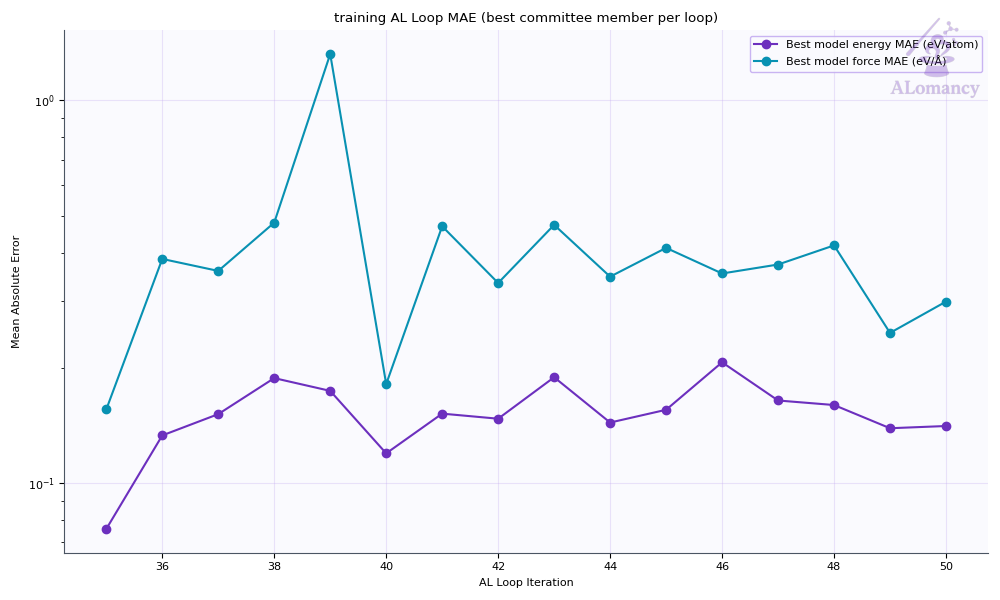
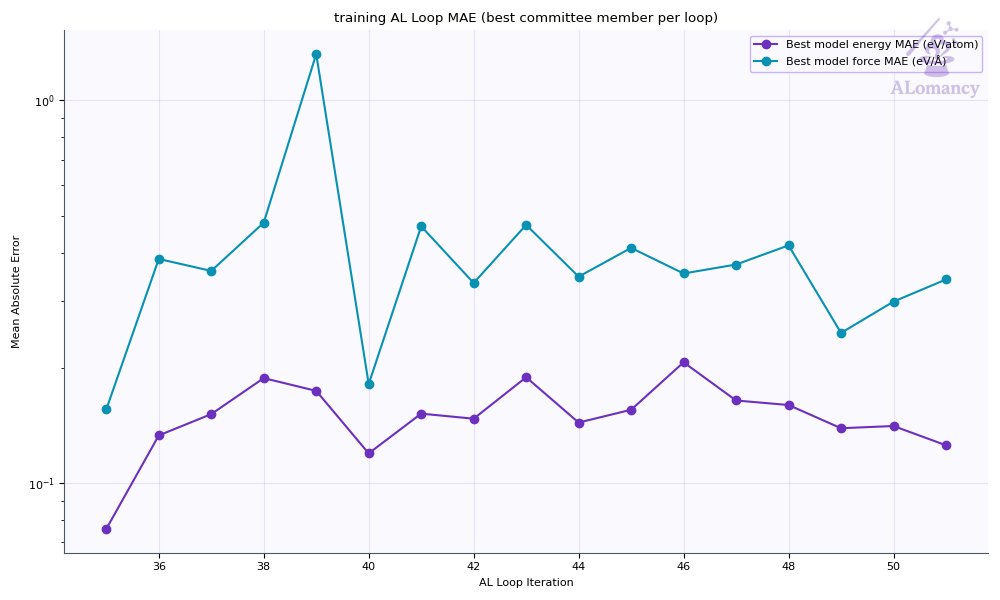
update good_c, yun_an

diff --git a/alomancy/yun_an/report/report.md b/alomancy/yun_an/report/report.md
@@ -1,25 +1,29 @@
-# ALomancy report: al_loop_50
+# ALomancy report: al_loop_51
 
-Workflow `committee_uncertainty` · trainer `mace` · generator `md` · evaluator `qe` · generated 2026-11-06T12:56:04
+Workflow `committee_uncertainty` · trainer `mace` · generator `md` · evaluator `qe` · generated 2026-11-09T06:28:48
 
-**Status:** ✓ no issues · 0 warning(s) logged
+**Status:** ✖ 2 errors · ⚠ 2 warnings · 💡 1 info · 17 warning(s) logged
 
 ## Headline
 
-| | loop 49 | loop 50 | change |
+| | loop 50 | loop 51 | change |
 |---|---:|---:|---:|
-| Best model test force MAE (eV/Å) | 0.247 | 0.298 | +21% |
-| Best model test energy MAE (meV/atom) | 139 | 141 | +1% |
-| Training structures | 2.23e+03 | 2.23e+03 | +0% |
-| Test structures | 130 | 130 | +0% |
-| New structures this loop | 76 | 0 | -100% |
-| Warnings / errors logged | 31 | 0 | -100% |
+| Best model test force MAE (eV/Å) | 0.298 | 0.341 | +14% |
+| Best model test energy MAE (meV/atom) | 141 | 126 | -11% |
+| Training structures | 2.32e+03 | 2.41e+03 | +4% |
+| Test structures | 142 | 152 | +7% |
+| New structures this loop | 86 | 92 | +7% |
+| Warnings / errors logged | 28 | 17 | -39% |
 
-Best model: fit_1 of 5 (chosen on the `valid` split).
+Best model: fit_4 of 5 (chosen on the `valid` split).
 
 ## Issues & suggestions
 
-No issues detected.
+- ✖ **remote_jobs_failed**: 13/141 remote jobs (9%) failed (8) or died (5). Check the job logs (results/alomancy.log has each failure's traceback); jobs killed by the scheduler usually need a longer max_time for that phase, or a partition with more memory.
+- ✖ **dft_partial_failure**: 8/100 structures sent to DFT (8%) came back without a result. Check the DFT output in results/<loop>/high_accuracy_evaluation; raise high_accuracy_evaluation.max_time / max_go_time if jobs timed out.
+- ⚠ **go_not_converged**: 14/92 geometry optimisations (15%) stopped at the step budget (200 steps) before reaching the force ceiling. Raise high_accuracy_evaluation.max_num_of_relax_steps, or raise high_accuracy_evaluation.force_ceiling (now 0.05 eV/Å) so they stop earlier. Non-converged structures are still kept as training data.
+- ⚠ **short_bond_excluded**: 3191/7150 structures (45%) were dropped for a bond shorter than 0.5 Å. The model is driving MD into collisions: lower md_kwargs.temperature or md_kwargs.timestep_fs, or add more short-range initialization data (dimers/trimers).
+- 💡 **overfitting**: The best model's test force MAE (0.341 eV/Å) is 2.3x its training MAE (0.146 eV/Å). The test set covers configurations training doesn't: keep adding data, or raise general.dataset_kwargs.valid_fraction to select models on held-out data.
 
 ## Trends
 
@@ -39,7 +43,8 @@ No issues detected.
 | 47 | 0.373 | 2085 | 30 | 30/45 | 73% | 0 | 27 |
 | 48 | 0.418 | 2152 | 75 | 75/100 | 61% | 0 | 39 |
 | 49 | 0.247 | 2232 | 76 | 76/100 | 92% | 0 | 31 |
-| 50 | 0.298 | 2232 | 0 | 0 | n/a | 0 | 0 |
+| 50 | 0.298 | 2323 | 86 | 86/100 | 85% | 0 | 28 |
+| 51 | 0.341 | 2409 | 92 | 92/100 | 85% | 0 | 17 |
 
 ![Best-model MAE per loop](plots/training_al_loop_mae_plot.png)
 
@@ -49,7 +54,7 @@ No issues detected.
 
 ![Best model parity](plots/best_model_parity.png)
 
-Median relative error: train energy 3.4%, force 21.6%; test energy 1.6%, force 155.2%.
+Median relative error: train energy 2.2%, force 15.8%; test energy 2.0%, force 148.8%.
 Energies with |formation energy| < 0.05 eV/atom and atoms with |F| < 0.1 eV/Å are left out; force error is |ΔF|/|F| per atom.
 
 ![Best model percentage error](plots/best_model_percent_error.png)
@@ -59,31 +64,79 @@ Energies with |formation energy| < 0.05 eV/atom and atoms with |F| < 0.1 eV/Å a
 | config_type | Train | Test | Excluded: redundant | Excluded: quality filter | total |
 |---|---:|---:|---:|---:|---:|
 | IsolatedAtom | 5 | 0 | 0 | 0 | 5 |
-| high_sd | 831 | 114 | 28 | 591 | 1564 |
+| high_sd | 1008 | 136 | 28 | 748 | 1920 |
 | init_MP | 69 | 4 | 0 | 0 | 73 |
 | init_amorphous | 67 | 12 | 8 | 0 | 87 |
 | init_dimer | 299 | 0 | 0 | 0 | 299 |
 | init_stretch_compress | 390 | 0 | 0 | 398 | 788 |
 | init_trimer | 571 | 0 | 0 | 0 | 571 |
-| **all** | **2232** | **130** | **36** | **989** | **3387** |
+| **all** | **2409** | **152** | **36** | **1146** | **3743** |
 
-- Redundancy removal: 36 structure(s) flagged in total, 0 of this loop's 0 new.
-- Quality filters: high_force: 987, formation_energy: 324.
+- Redundancy removal: 36 structure(s) flagged in total, 0 of this loop's 92 new.
+- DFT geometry-optimisation starting frames: 92 stored this loop, 4 used (the rest excluded by the train/test filters or redundancy removal).
+- Quality filters: high_force: 1144, formation_energy: 357.
 
 ![Training set composition](plots/training_set_composition.png)
 
+### Redundancy removal
+
+Redundancy removal flags near-duplicate training structures, so the model isn't trained on many copies of the same geometry. Each structure is described by `char_vec_128`: all of its interatomic distances, sorted and resampled to 128 values (`global_descriptor/atomic_distance_descriptor.make_char_vec`). Two structures count as duplicates when the Euclidean distance between their descriptors is below a tolerance: in database order, each structure still in the training set is kept unless it is within the tolerance of one already kept. The plot sweeps that tolerance and counts how many structures are kept at each value. **We are looking for plateaus** (shaded): ranges where the count doesn't change, so the result doesn't depend on the exact tolerance. The orange line (right axis) is the number of structures removed between consecutive tolerance steps, the gradient of the count: zero on a plateau. The start of the lowest plateau at least `general.redundancy_kwargs.min_plateau_width` of the swept range wide is used (dashed line). Nothing is flagged when no plateau qualifies, or when it would flag more than `max_flagged_fraction` of the structures; `general.redundancy_kwargs.tolerance` sets the tolerance directly.
+
+- This loop: 1,180 structures probed, tolerance 0.0398, 36 flagged as duplicates (8 plateau(s) found).
+
+![Redundancy tolerance probe](plots/redundancy_tolerance_probe.png)
+
 ## DFT
 
-No DFT this loop.
+- Structures: 92 returned of 100 submitted (92 relaxed, 0 single point).
+- Geometry optimisation: 78/92 reached the force ceiling (0.05 eV/Å); steps mean 134.6, median 129, max 200 of 200 allowed.
+- Average DFT time per relaxation: 312.5 min (median 292.5, max 586.7; 92 structures).
+- Largest per-atom force after DFT: median 0.05, max 1.88 eV/Å.
+- DFT phase wall-clock: 10.3 h (mean queue time 21 min).
+
+**Structures evaluated with DFT this loop (final geometries)**
+
+![Structures evaluated with DFT this loop (final geometries)](plots/added_structures.gif)
 
 ## MLIP training: mace
 
-- Best fit (fit_1) trained for 199 epochs, stage two from epoch 160; weights kept from epoch 162.
+- Best fit (fit_4) trained for 299 epochs, stage two from epoch 240; weights kept from epoch 247.
 
 ![Best model training curve](plots/best_model_training_curve.png)
+
+## Structure generation: MD
+
+- Runs: 30 (30 completed, 1 seed(s) replaced)
+- Frames: 6224 recorded, 3690 physical (no bond < 0.5 Å, volume ≤ 3 x the seed's; 44 frame(s) cut after a run expanded past it, seed frames left out), 1000 picked as candidates, spread over each run
+- Ensemble npt, T = 300 K, timestep 0.1 fs
+
+![MD frames per run](plots/md_frames_per_run.png)
+
+![MD temperature](plots/md_temperature.png)
+
+## High-accuracy evaluation: QE
+
+![DFT geometry steps](plots/dft_geometry_steps.png)
+
+![DFT wall time](plots/dft_wall_time.png)
+
+## Selection: committee uncertainty
+
+- 269 candidates scored; 100 selected (37 %; max force std dev ≥ 0.395 eV/Å).
+
+![Committee force std dev](plots/committee_force_std_dev.png)
 
 ## Warnings and events
 
 | event | meaning | count |
 |---|---|---:|
-| `jobs_started` | remote jobs started | 1 |
+| `dft_summary` | DFT batch summary | 1 |
+| `job_died` | remote job died (killed / lost) | 5 |
+| `job_failed` | remote job failed | 8 |
+| `jobs_started` | remote jobs started | 5 |
+| `md_summary` | MD summary | 1 |
+| `md_volume_expanded` | MD runs cut after expanding past max_volume_ratio | 1 |
+| `mlip_relax_dropped` | candidates dropped by MLIP relaxation | 1 |
+| `quality_filtered` | train/test quality filter passes | 2 |
+| `redundancy_flagged` | redundancy removal passes | 1 |
+| `short_bond_excluded` | structures dropped for a short bond | 2 |
